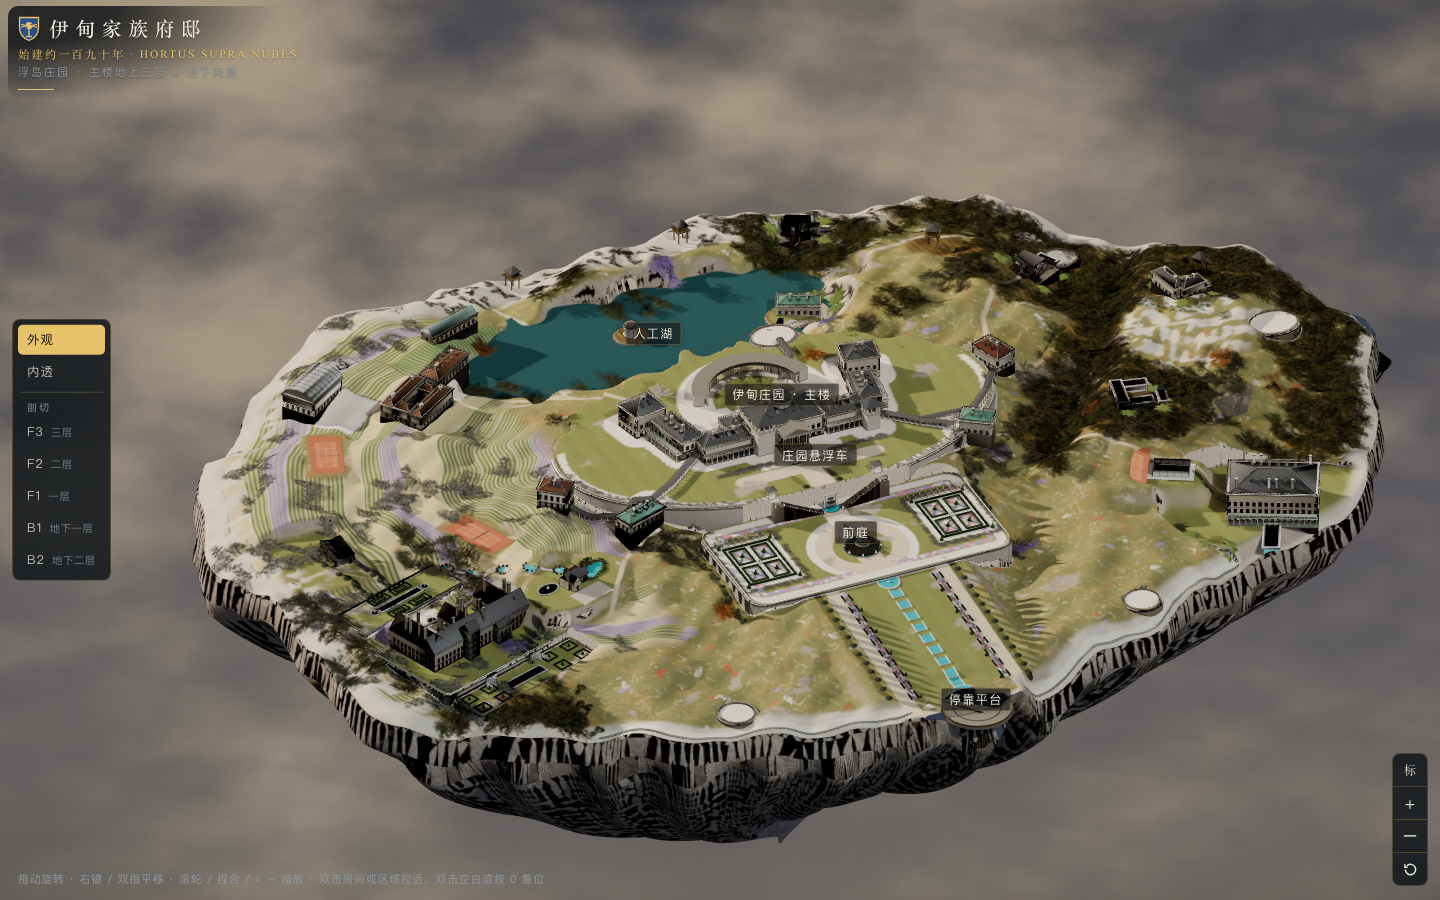
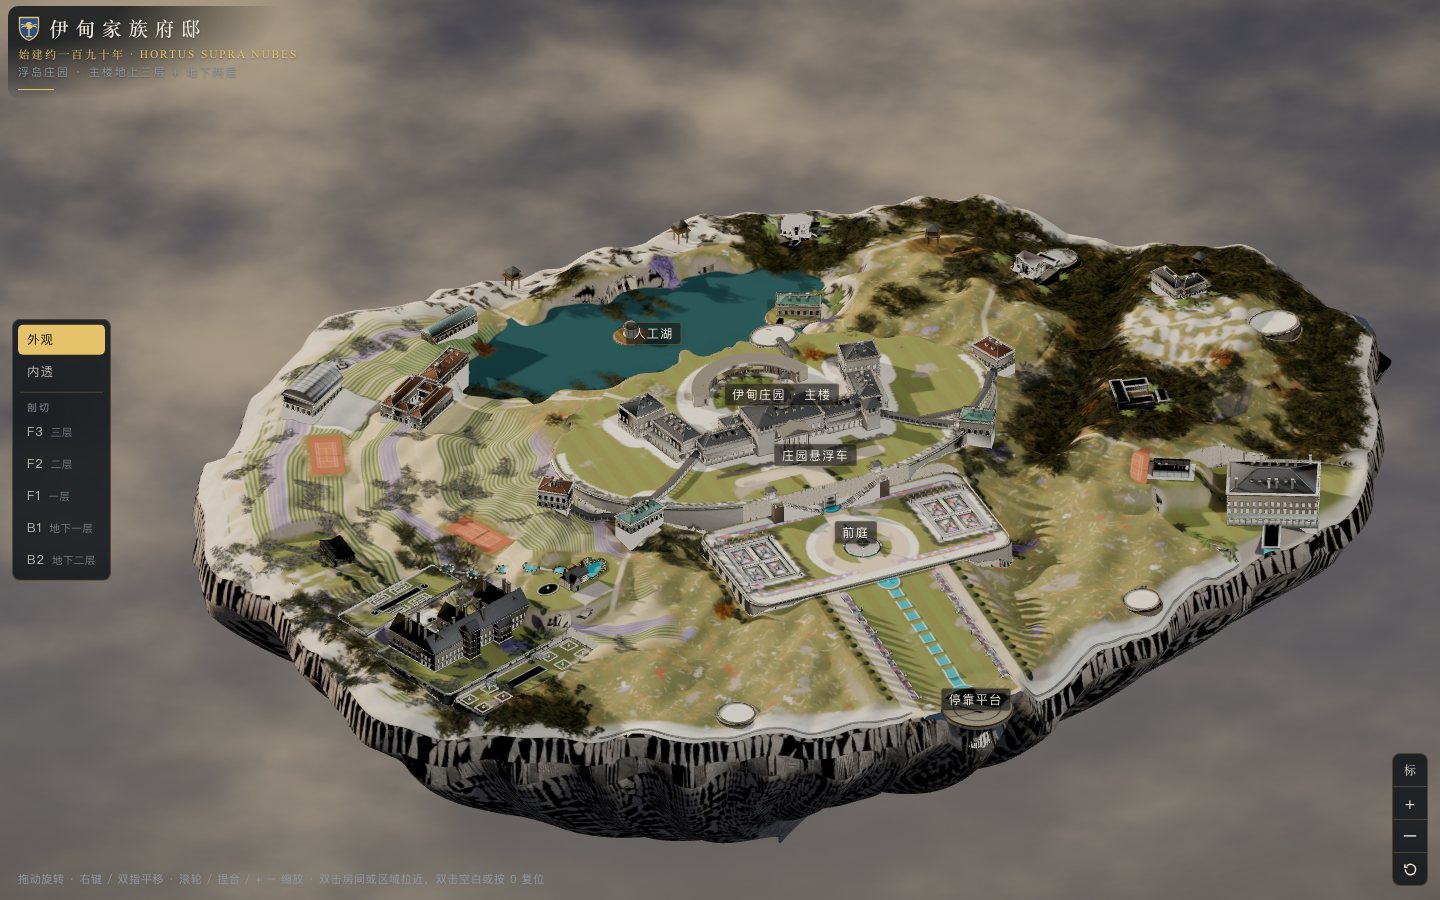
庄园三维：湖岸东侧建筑屋顶黑块（site_e_vc 烘焙出纯黑顶点色）载入时补成石板灰

diff --git a/map/estate/main.js b/map/estate/main.js
@@ -248,7 +248,12 @@ siteG.traverse((o) => {
   o.material.dispose();
   const shell = o.name.startsWith('house_shell');
   o.material = new THREE.MeshBasicMaterial({ map, vertexColors: !map && !!o.geometry.attributes.color, side: shell ? THREE.DoubleSide : THREE.FrontSide, clippingPlanes: shell ? [shellClip] : null });
-  if (o.material.vertexColors) o.material.color.setScalar(1.22);   // 顶点色烘焙逐点平均了阴影面，整体偏暗：提一点与贴图烘焙对齐
+  if (o.material.vertexColors) o.material.color.setScalar(1.22);
+  if (o.material.vertexColors) {   // 烘焙漏洞：个别顶点色是纯黑（湖岸东侧建筑屋顶成黑块）→ 补成石板屋顶灰
+    const c = o.geometry.attributes.color, n = c.count; let k = 0;
+    for (let i = 0; i < n; i++) if (c.getX(i) + c.getY(i) + c.getZ(i) < 0.03) { c.setXYZ(i, 0.36, 0.345, 0.33); k++; }
+    if (k) { c.needsUpdate = true; STAT.blackFix = (STAT.blackFix || 0) + k; }
+  }   // 顶点色烘焙逐点平均了阴影面，整体偏暗：提一点与贴图烘焙对齐
   if (shell) darkBack(o.material, [0.55, 0.52, 0.47]);   // 剖切面：浅灰截面（原先近黑，F2 剖切时翼楼成了黑块）
   MESH[o.name] = o; STAT.tris += (o.geometry.index ? o.geometry.index.count : o.geometry.attributes.position.count) / 3;
 });
